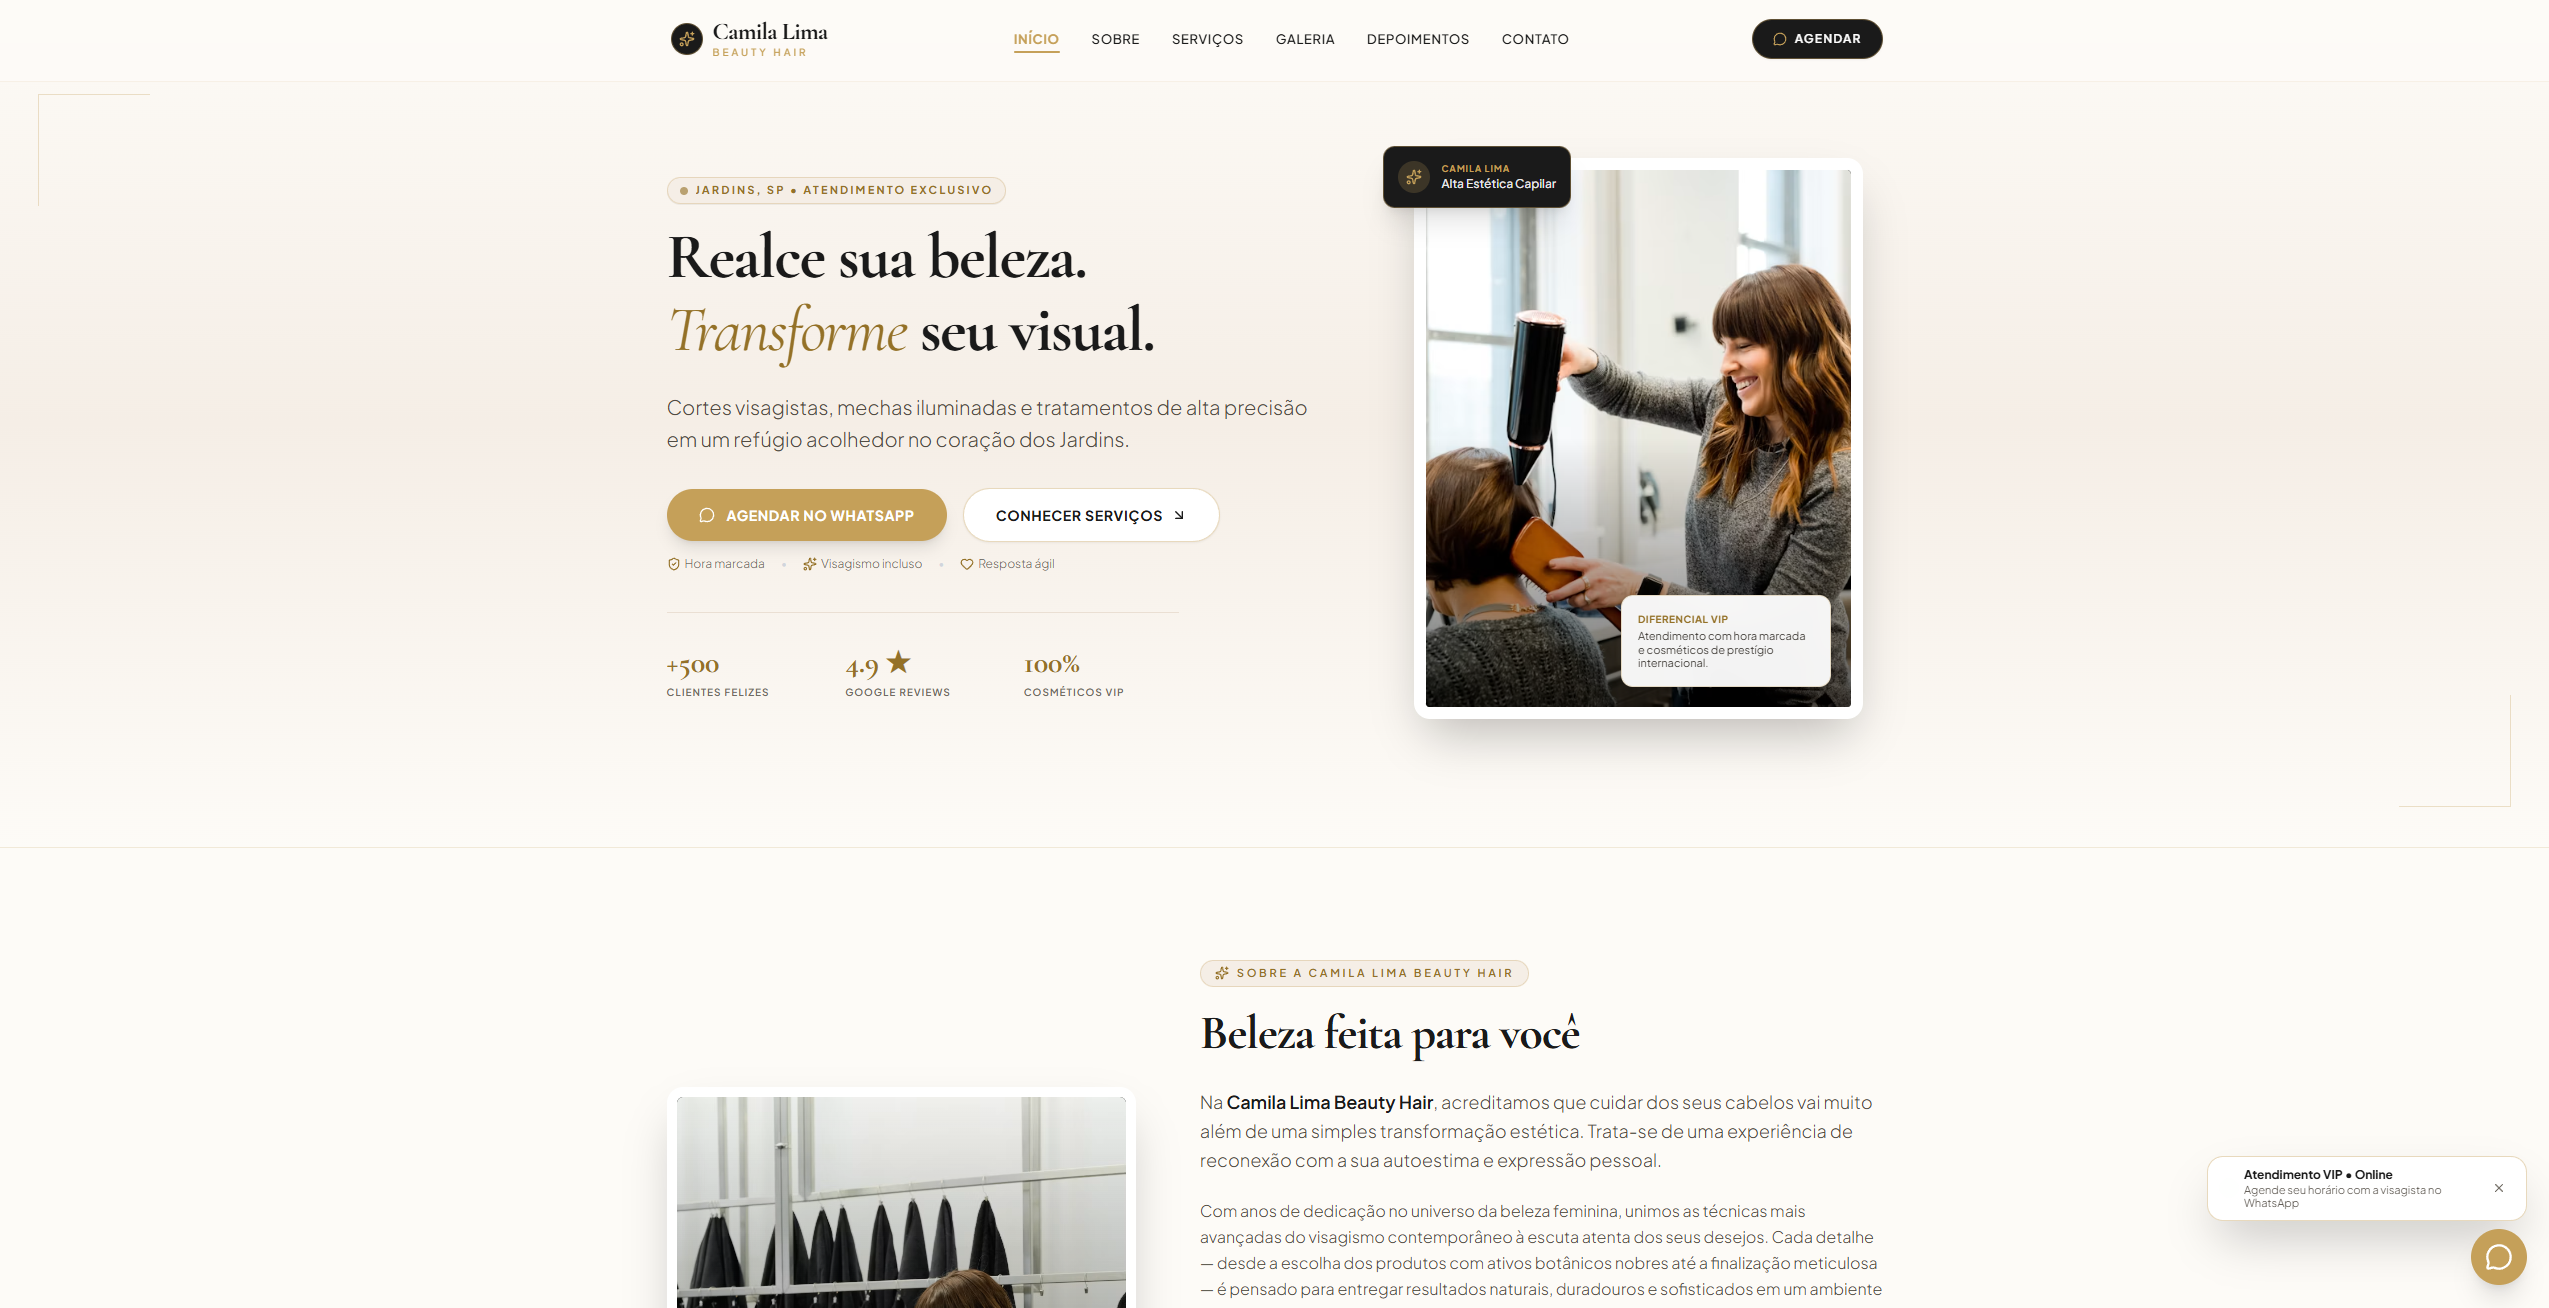
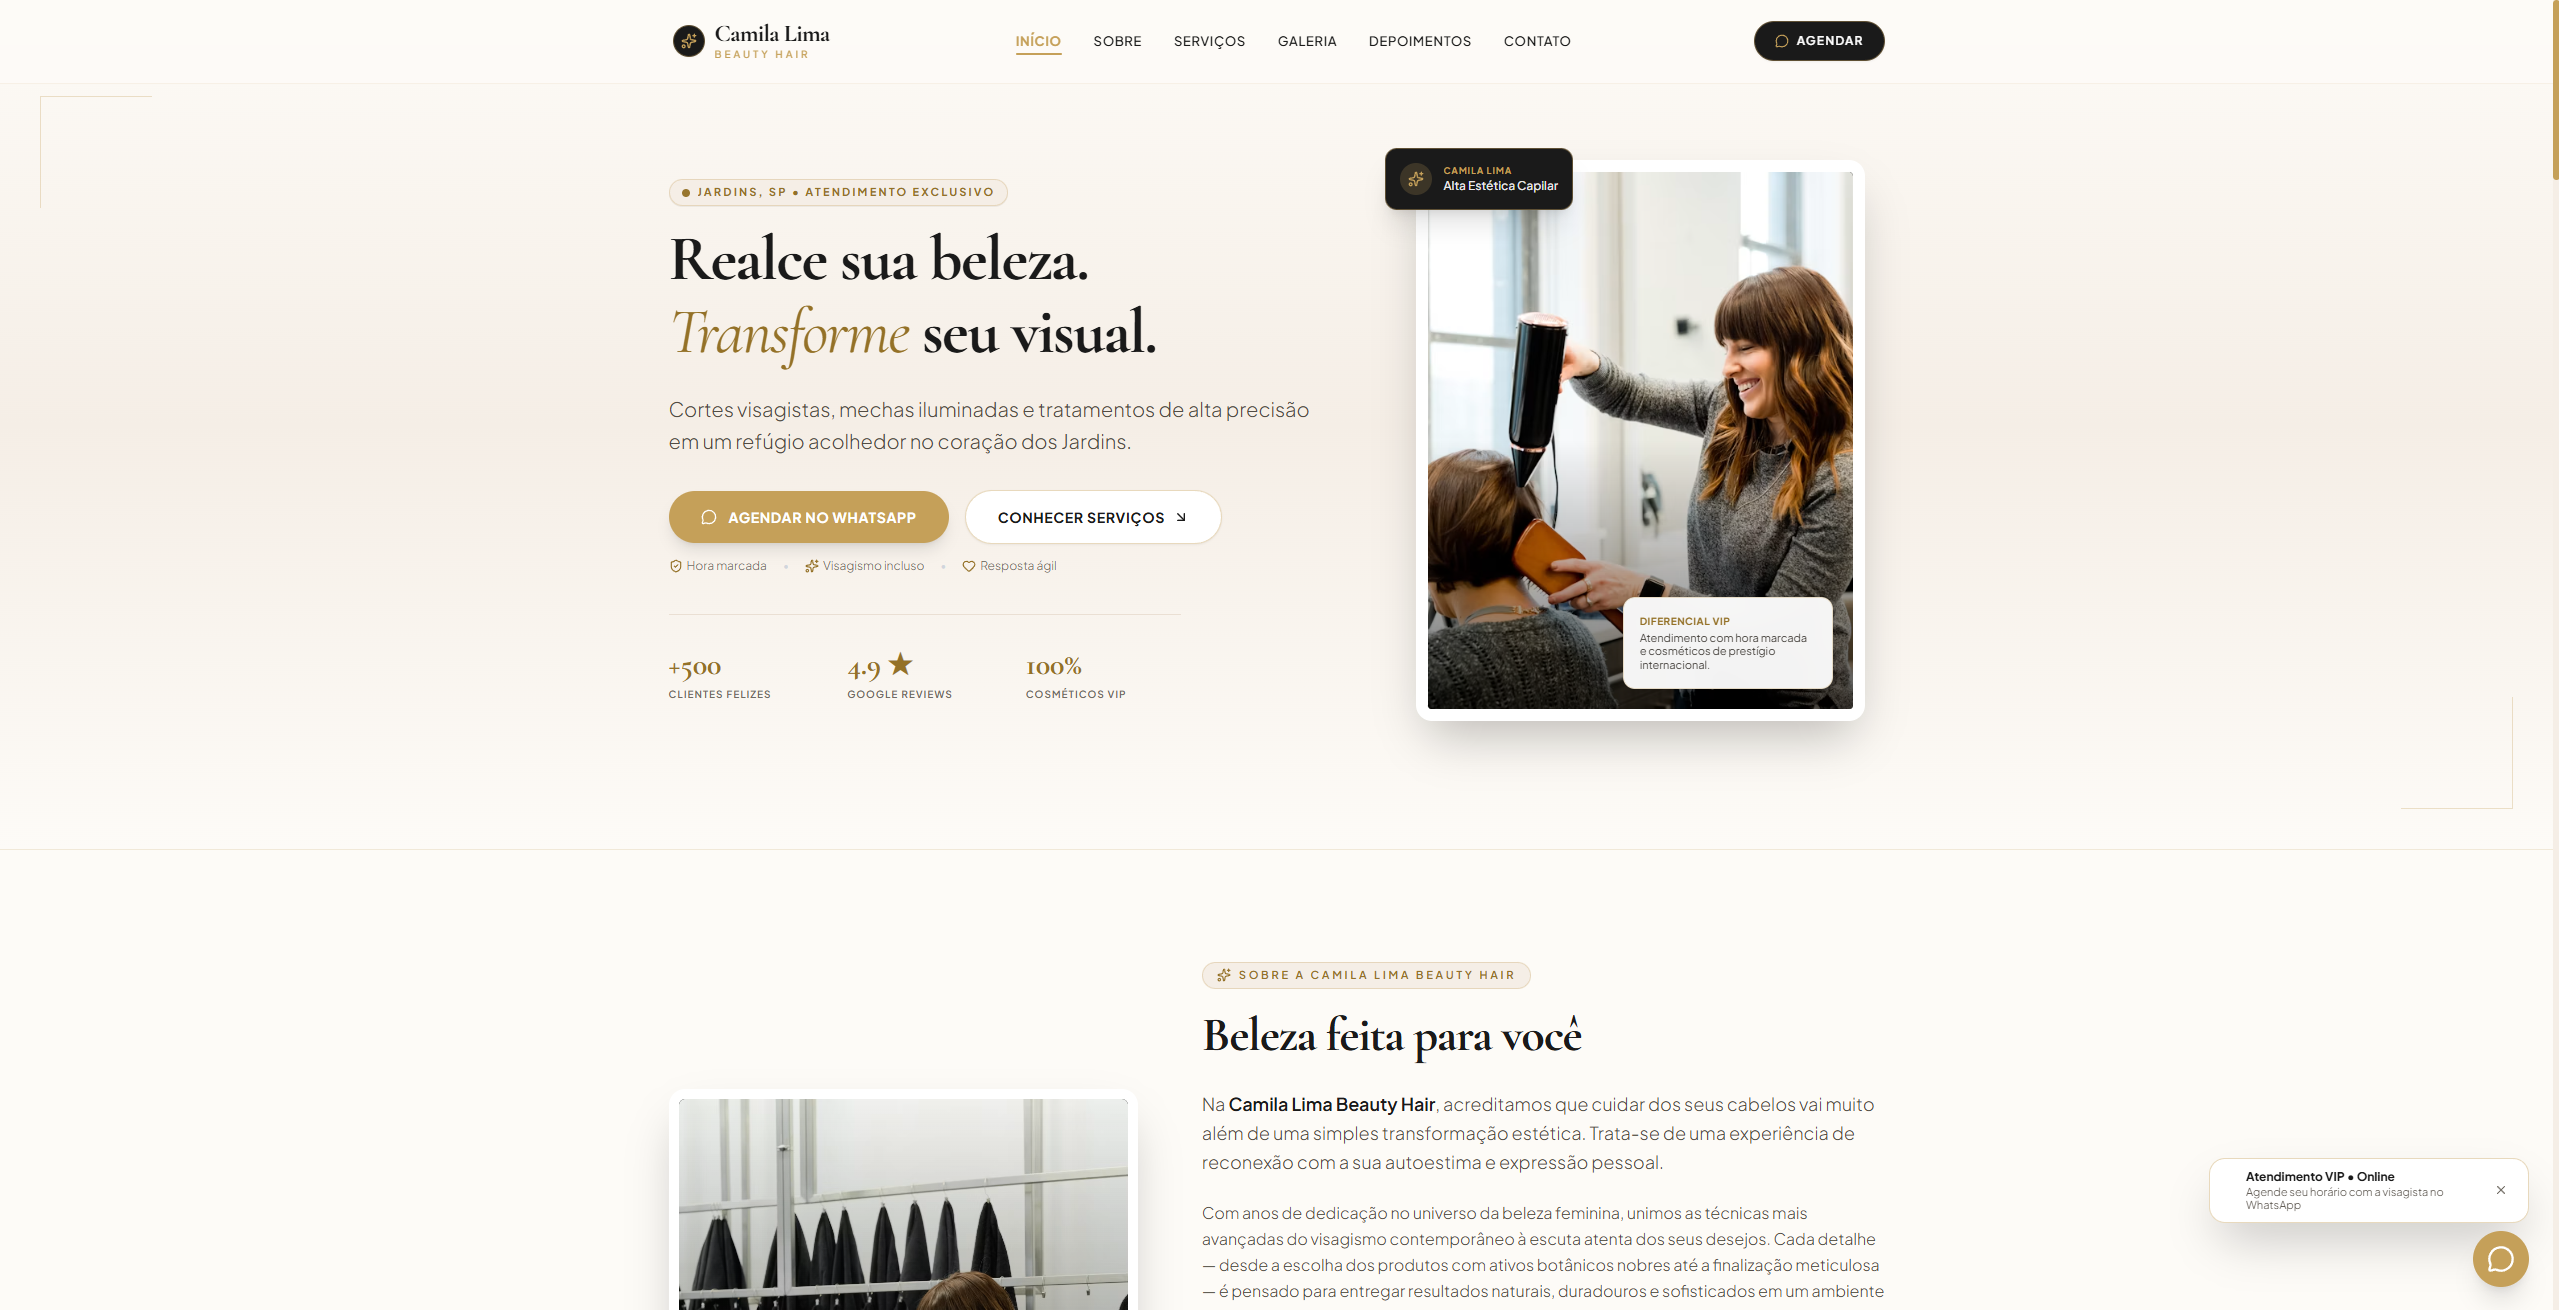
Atualiza imagem do projeto Camila Lima

diff --git a/src/components/Portfolio.tsx b/src/components/Portfolio.tsx
@@ -84,6 +84,17 @@ export function Portfolio() {
                 id={`projeto-card-${projeto.id}`}
               >
                 {/* Visual Mockup Superior */}
+                {projeto.id === "camila-lima-beauty" ? (
+  <div className="p-4 sm:p-5 bg-[#0A101D] border-b border-slate-800/80">
+    <div className="bg-[#111A2E] rounded-xl border border-slate-700/80 overflow-hidden">
+      <img
+        src="/projects/camila-lima-beauty.png"
+        alt={`Preview do site ${projeto.nome}`}
+        className="w-full h-44 sm:h-48 object-cover object-top"
+      />
+    </div>
+  </div>
+) : (
                 <div className="p-4 sm:p-5 bg-[#0A101D] border-b border-slate-800/80">
                   <div className="bg-[#111A2E] rounded-xl border border-slate-700/60 overflow-hidden shadow-inner relative group-hover:scale-[1.02] transition-transform duration-300">
                     
@@ -128,7 +139,7 @@ export function Portfolio() {
 
                   </div>
                 </div>
-
+)}
                 {/* Conteúdo do Card */}
                 <div className="p-6 flex-1 flex flex-col justify-between">
                   <div>

diff --git a/src/data/vitrineData.ts b/src/data/vitrineData.ts
@@ -71,7 +71,7 @@ export const PROJETOS: ProjetoItem[] = [
       statValue: "100%",
       statLabel: "Design Responsivo",
     }
-  },
+     },
   {
     id: "studio-bella",
     nome: "Studio Bella",
